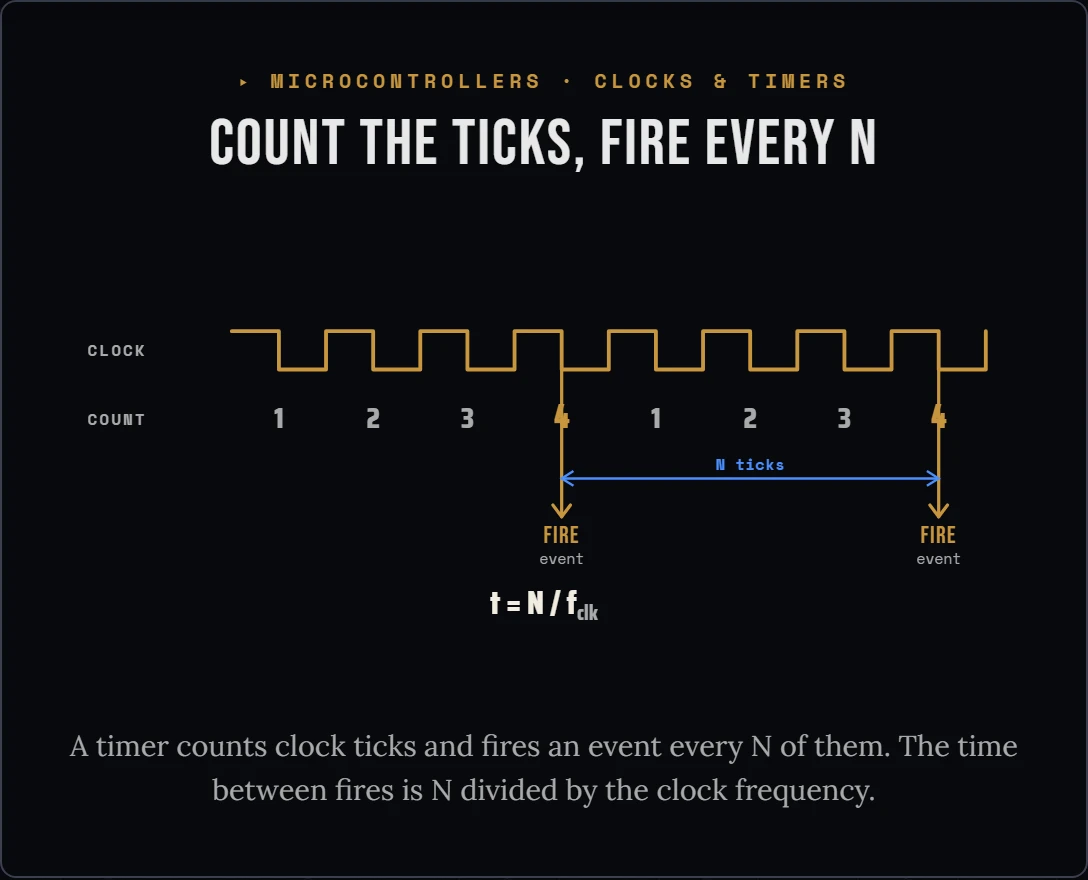
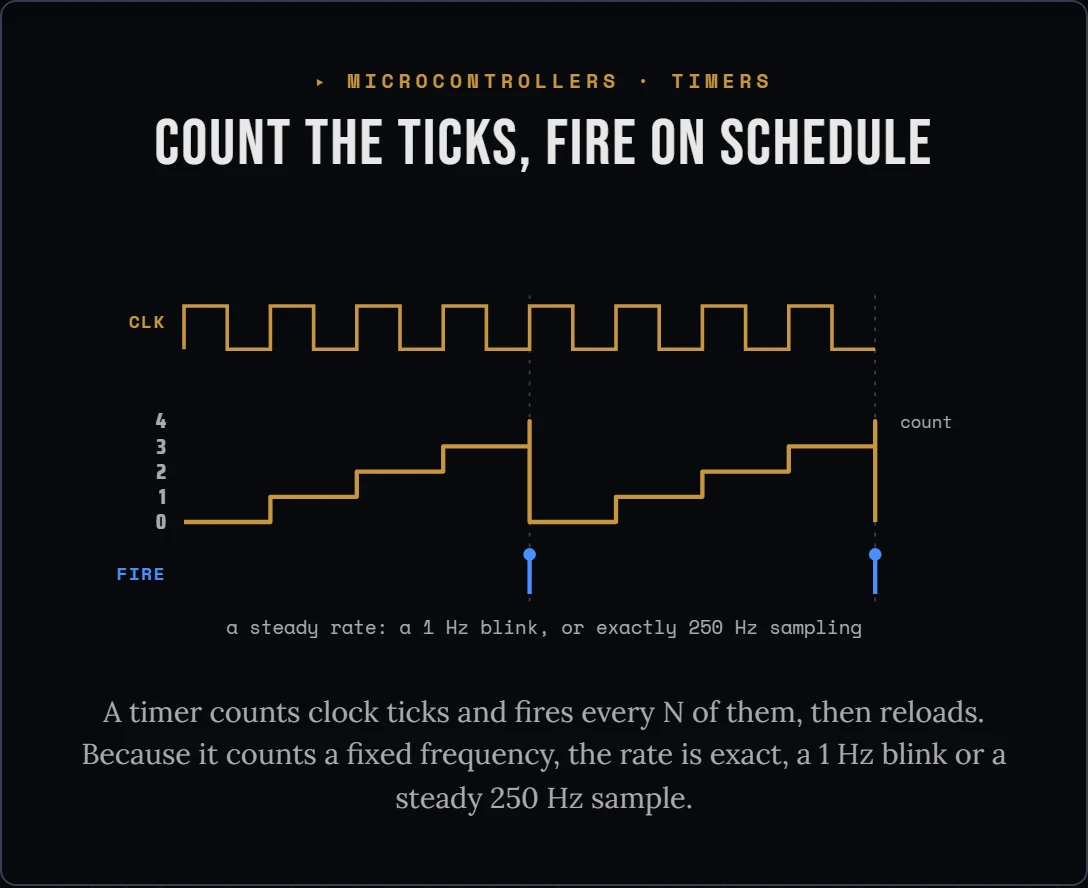
redo(diagrams): mcu-timer-count — a three-lane scope trace (7/11)
Rebuild to the house bar: the timer mechanism as an aligned scope. Top lane the
steady clock pulses, middle lane the count climbing to N and rolling over, bottom
lane the event fired at each rollover, all aligned on dashed guides. A note ties
it to a real rate (1 Hz blink, 250 Hz sampling). Saira count numbers, token
color, both themes, landscape 1.24.

diff --git a/src/components/guide/diagrams/McuTimerCount.tsx b/src/components/guide/diagrams/McuTimerCount.tsx
@@ -1,119 +1,104 @@
-// Clocks and timers: count ticks, fire every N (v2). Microcontrollers cluster.
+// Clocks and timers: count the ticks, fire on schedule (diagram-standards v2).
+// MCU cluster, diagram 7. Owner-picked T6: a three-lane scope trace.
 //
-// Teaching point: a timer counts the steady clock and fires an event every N
-// ticks, so the time between fires is N divided by the clock frequency. That is
-// how a board holds an exact rate.
+// Teaching point (lesson 6): a clock is a steady stream of pulses; a timer is a
+// hardware counter wired to it that increments on every tick, and when it reaches
+// its target count N it fires an event and reloads. Three aligned lanes: the clock
+// pulses, the count climbing to N and rolling over, and the event fired at each
+// rollover. Because it counts a fixed frequency, the rate is exact.
 //
-// Landscape desktop/print: a clock waveform over the running count, with a fire
-// marker each time the count reaches N, and the period formula. REFLOWS on a
-// phone to a summary. Token-only color.
+// Scope paths computed once at module scope. Color via CSS classes; Saira for the
+// count numbers. Header + caption from the DiagramFrame.
 import { DiagramFrame } from "./DiagramFrame";
 
-const X0 = 118, TW = 64, TICKS = 8, N = 4;
-const Y_HI = 66, Y_LO = 92;
+const X0 = 70, TW = 48, TICKS = 8, N = 4;
+const UNIT = 14, YB = 160;
+const FIRES = [X0 + N * TW, X0 + 2 * N * TW];
 
-function clockPath(): string {
-  let d = `M${X0},${Y_HI}`;
+const CLK = (() => {
+  const yTop = 40, yBot = 64;
+  let d = `M${X0} ${yBot}`;
+  let x = X0;
   for (let i = 0; i < TICKS; i++) {
-    const xh = X0 + i * TW, xm = xh + TW / 2, xe = xh + TW;
-    d += ` L${xm},${Y_HI} L${xm},${Y_LO} L${xe},${Y_LO} L${xe},${Y_HI}`;
+    const h = TW / 2;
+    d += ` L${x} ${yTop} L${x + h} ${yTop} L${x + h} ${yBot} L${x + TW} ${yBot}`;
+    x += TW;
   }
   return d;
-}
+})();
+
+const COUNT = (() => {
+  let d = `M${X0} ${YB}`;
+  let c = 0;
+  for (let i = 1; i <= TICKS; i++) {
+    const x = X0 + i * TW;
+    d += ` L${x} ${(YB - c * UNIT).toFixed(1)}`;
+    c++;
+    if (c >= N) { d += ` L${x} ${(YB - N * UNIT).toFixed(1)} L${x} ${YB}`; c = 0; }
+    else d += ` L${x} ${(YB - c * UNIT).toFixed(1)}`;
+  }
+  return d;
+})();
 
 export function McuTimerCount({ caption }: { caption?: string }) {
-  const fires = [N - 1, 2 * N - 1]; // tick index where the count reaches N
   return (
     <DiagramFrame
-      eyebrow="MICROCONTROLLERS · CLOCKS & TIMERS"
+      eyebrow="MICROCONTROLLERS · TIMERS"
       tone="gold"
-      title="Count the ticks, fire every N"
-      ariaLabel="A steady clock signal, drawn as a square wave of ticks, drives a timer that counts each tick. The running count is shown under the ticks: 1, 2, 3, 4, then it resets and counts again. Every time the count reaches N (here 4) the timer fires an event, an interrupt, marked below. The time between fires is N ticks, which equals N divided by the clock frequency f-clk. That is how a board keeps an exact rate."
+      title="Count the ticks, fire on schedule"
+      ariaLabel="A timer drawn as a three-lane scope trace. The top lane is a steady clock of square pulses. The middle lane is the timer's count, a staircase that climbs one step on every clock tick, from zero up to its target N, then drops back to zero. The bottom lane is the event the timer fires at each rollover, aligned to the moment the count reaches N. Because it counts a fixed frequency, the event repeats at an exact rate, such as a 1 Hz blink or a 250 Hz sample."
       caption={caption}
-      defaultCaption="A timer counts clock ticks and fires an event every N of them. The time between fires is N divided by the clock frequency."
+      defaultCaption="A timer counts clock ticks and fires every N of them, then reloads. Because it counts a fixed frequency, the rate is exact, a 1 Hz blink or a steady 250 Hz sample."
     >
       <style>{CSS}</style>
+      <div className="tm">
+        <svg className="tm-svg" viewBox="0 0 540 226" aria-hidden="true">
+          {FIRES.map((x) => (
+            <line key={x} x1={x} y1="34" x2={x} y2="204" className="tm-guide" />
+          ))}
 
-      <div className="tc">
-        {/* desktop / print */}
-        <svg className="tc-scene" viewBox="0 0 660 300" aria-hidden="true">
-          <text className="tc-lbl" x={20} y={83} textAnchor="start">CLOCK</text>
-          <path className="tc-clk" fill="none" d={clockPath()} />
+          <text x={X0 - 10} y="52" textAnchor="end" className="tm-lbl-clk">CLK</text>
+          <path d={CLK} className="tm-clk" />
 
-          {/* running count under each tick */}
-          <text className="tc-lbl" x={20} y={130} textAnchor="start">COUNT</text>
-          {Array.from({ length: TICKS }, (_, i) => {
-            const v = (i % N) + 1;
-            const cx = X0 + i * TW + TW / 2;
-            const hit = v === N;
-            return (
-              <text key={i} className={hit ? "tc-cnt tc-hit" : "tc-cnt"} x={cx} y={132} textAnchor="middle">{v}</text>
-            );
-          })}
+          <path d={COUNT} className="tm-count" />
+          {Array.from({ length: N + 1 }, (_, k) => (
+            <text key={k} x={X0 - 10} y={YB - k * UNIT + 4} textAnchor="end" className="tm-num">{k}</text>
+          ))}
+          <text x={X0 + 2 * N * TW + 14} y={YB - N * UNIT + 4} className="tm-count-lbl">count</text>
 
-          {/* fire markers each time count hits N */}
-          {fires.map((i) => {
-            const cx = X0 + i * TW + TW / 2;
-            return (
-              <g key={i}>
-                <line className="tc-fire" x1={cx} y1={Y_LO} x2={cx} y2={192} />
-                <path className="tc-fire" fill="none" d={`M${cx - 6},184 L${cx},192 L${cx + 6},184`} />
-                <text className="tc-firel" x={cx} y={210} textAnchor="middle">FIRE</text>
-                <text className="tc-fires" x={cx} y={224} textAnchor="middle">event</text>
-              </g>
-            );
-          })}
+          {FIRES.map((x) => (
+            <g key={x}>
+              <line x1={x} y1="200" x2={x} y2="178" className="tm-fire" />
+              <circle cx={x} cy="178" r="3.5" className="tm-firedot" />
+            </g>
+          ))}
+          <text x={X0 - 10} y="192" textAnchor="end" className="tm-lbl-fire">FIRE</text>
 
-          {/* period span between fires */}
-          {(() => {
-            const xa = X0 + fires[0] * TW + TW / 2, xb = X0 + fires[1] * TW + TW / 2;
-            return (
-              <g>
-                <line className="tc-span" x1={xa} y1={166} x2={xb} y2={166} />
-                <path className="tc-span" fill="none" d={`M${xa + 8},161 L${xa},166 L${xa + 8},171`} />
-                <path className="tc-span" fill="none" d={`M${xb - 8},161 L${xb},166 L${xb - 8},171`} />
-                <text className="tc-spanl" x={(xa + xb) / 2} y={160} textAnchor="middle">N ticks</text>
-              </g>
-            );
-          })()}
-
-          {/* period formula */}
-          <text className="tc-eq" x={330} y={258} textAnchor="middle">
-            t = N / f<tspan className="tc-sub" dy={4}>clk</tspan>
-          </text>
+          <text x="270" y="222" textAnchor="middle" className="tm-note">a steady rate: a 1 Hz blink, or exactly 250 Hz sampling</text>
         </svg>
-
-        {/* phone reflow */}
-        <div className="tc-phone" aria-hidden="true">
-          <p className="tc-psum">The clock ticks steadily; the timer counts the ticks. Every <b>N</b> ticks it fires an event.</p>
-          <p className="tc-peq">t = N / f<sub>clk</sub></p>
-          <p className="tc-pnote">so a bigger N, or a slower clock, means a longer gap between fires.</p>
-        </div>
       </div>
     </DiagramFrame>
   );
 }
 
 const CSS = `
-.tc{display:block;}
-.tc-scene{display:block;width:100%;height:auto;overflow:visible;}
-.tc-clk{stroke:var(--color-command-gold,#c8963e);stroke-width:2.6;stroke-linejoin:round;stroke-linecap:round;}
-.tc-lbl{font-family:var(--font-mono,"Space Mono",monospace);font-weight:700;font-size:11px;letter-spacing:.12em;fill:var(--color-muted,#aaa);}
-.tc-cnt{font-family:var(--font-numeral,"Saira Condensed",sans-serif);font-weight:800;font-size:20px;fill:var(--color-muted,#aaa);}
-.tc-hit{fill:var(--color-command-gold,#c8963e);font-size:23px;}
-.tc-fire{fill:none;stroke:var(--color-command-gold,#c8963e);stroke-width:2.2;stroke-linecap:round;stroke-linejoin:round;}
-.tc-firel{font-family:var(--font-display,"Bebas Neue",sans-serif);font-size:16px;letter-spacing:.06em;fill:var(--color-command-gold,#c8963e);}
-.tc-fires{font-family:var(--font-mono,"Space Mono",monospace);font-weight:400;font-size:10px;fill:var(--color-muted,#aaa);}
-.tc-span{fill:none;stroke:var(--color-signal-blue,#4a8fff);stroke-width:1.6;}
-.tc-spanl{font-family:var(--font-mono,"Space Mono",monospace);font-weight:700;font-size:11px;fill:var(--color-signal-blue,#4a8fff);}
-.tc-eq{font-family:var(--font-numeral,"Saira Condensed",sans-serif);font-weight:800;font-size:22px;fill:var(--color-title,#f1ece0);}
-.tc-sub{font-size:14px;fill:var(--color-muted,#aaa);}
+.tm{max-width:36rem;margin-inline:auto;}
+.tm-svg{display:block;width:100%;height:auto;overflow:visible;}
+.tm-guide{stroke:var(--color-panel-border,#3a3f50);stroke-width:1;stroke-dasharray:2 4;}
+.tm-clk{fill:none;stroke:var(--color-command-gold,#c8963e);stroke-width:2;}
+.tm-count{fill:none;stroke:var(--color-command-gold,#c8963e);stroke-width:2.4;stroke-linejoin:round;}
+.tm-fire{stroke:var(--color-signal-blue,#4a8fff);stroke-width:2.4;}
+.tm-firedot{fill:var(--color-signal-blue,#4a8fff);}
+.tm-num{font-family:var(--font-numeral,"Saira Condensed",sans-serif);font-weight:700;font-size:12px;fill:var(--color-muted,#aaaaaa);}
+.tm-count-lbl{font-family:var(--font-mono,"Space Mono",monospace);font-size:9.5px;fill:var(--color-muted,#aaaaaa);}
+.tm-lbl-clk{font-family:var(--font-mono,"Space Mono",monospace);font-weight:700;font-size:10px;letter-spacing:.08em;fill:var(--color-command-gold,#c8963e);}
+.tm-lbl-fire{font-family:var(--font-mono,"Space Mono",monospace);font-weight:700;font-size:10px;letter-spacing:.08em;fill:var(--color-signal-blue,#4a8fff);}
+.tm-note{font-family:var(--font-mono,"Space Mono",monospace);font-size:10.5px;fill:var(--color-muted,#aaaaaa);}
 
-/* phone reflow */
-.tc-phone{display:none;}
-@media (max-width:520px){ .tc-scene{display:none;} .tc-phone{display:block;} }
-.tc-psum{margin:0 0 .5rem;font-family:var(--font-serif,"Lora",serif);font-size:.95rem;line-height:1.5;color:var(--color-text,#e8e8e8);}
-.tc-psum b{font-family:var(--font-numeral,"Saira Condensed",sans-serif);font-weight:800;color:var(--color-command-gold,#c8963e);}
-.tc-peq{margin:.2rem 0;font-family:var(--font-numeral,"Saira Condensed",sans-serif);font-weight:800;font-size:1.5rem;color:var(--color-title,#f1ece0);}
-.tc-pnote{margin:.2rem 0 0;font-family:var(--font-serif,"Lora",serif);font-size:.9rem;color:var(--color-muted,#aaa);}
+/* Tier-B reveal off the frame's armed/in contract (final state under reduced-motion). */
+.dgfrm.armed .tm-svg{opacity:0;transform:translateY(6px);}
+.dgfrm.armed.in .tm-svg{opacity:1;transform:none;transition:opacity .6s ease,transform .6s cubic-bezier(.2,.7,.2,1);}
+@media (prefers-reduced-motion:reduce){
+  .dgfrm .tm-svg{opacity:1!important;transform:none!important;transition:none!important;}
+}
 `;
